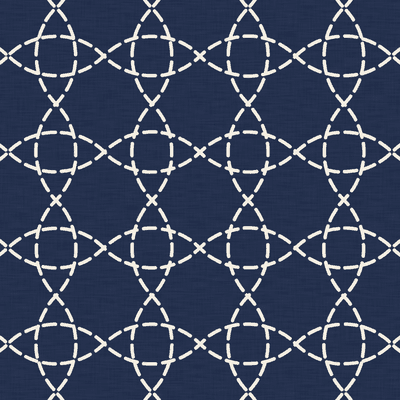
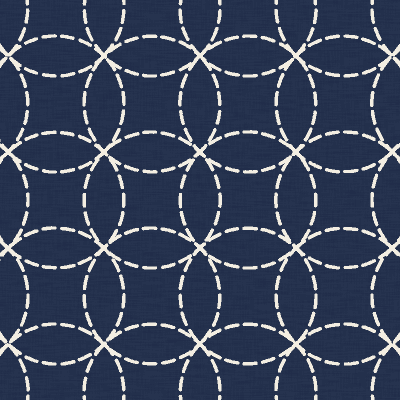
fix: shippo pattern

Changed region(s): [[0.0, 0.0, 1.0, 1.0]]

diff --git a/js/sashiko.js b/js/sashiko.js
@@ -335,12 +335,15 @@ function shippo(u) {
   const a = u, out = [];
   const C = S / 2, n = Math.ceil(S / a / 2) + 2;
   for (const vertical of [false, true]) {
+    // the vertical waves are shifted half a cell both ways so that their
+    // arcs meet the horizontal ones on the same circles
+    const dy = vertical ? 0 : 0.5, dx = vertical ? -0.5 : 0;
     for (let k = -n; k < n; k++) {
-      const y0 = C + (k + 0.5) * a;
+      const y0 = C + (k + dy) * a;
       for (const phase of [0, 1]) {
         let pts = [];
         for (let i = -n; i < n; i++) {
-          const x0 = C + i * a, cx = x0 + a / 2;
+          const x0 = C + (i + dx) * a, cx = x0 + a / 2;
           const up = (i + phase) % 2 === 0;
           const seg = up
             ? arc(cx, y0 + a / 2, a / Math.SQRT2, (-3 * Math.PI) / 4, -Math.PI / 4, 2)

diff --git a/sw.js b/sw.js
@@ -1,4 +1,4 @@
-const CACHE = "sashiko-maker-v3";
+const CACHE = "sashiko-maker-v4";
 const ASSETS = [
   "./",
   "css/common.css",
